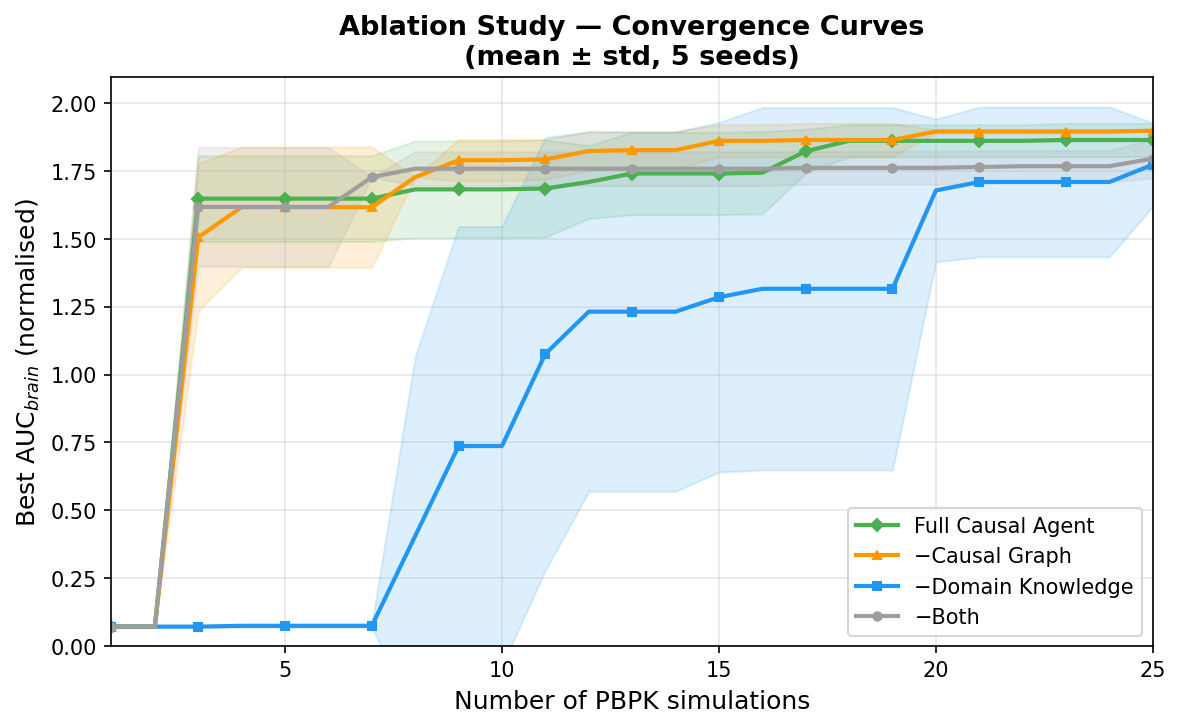
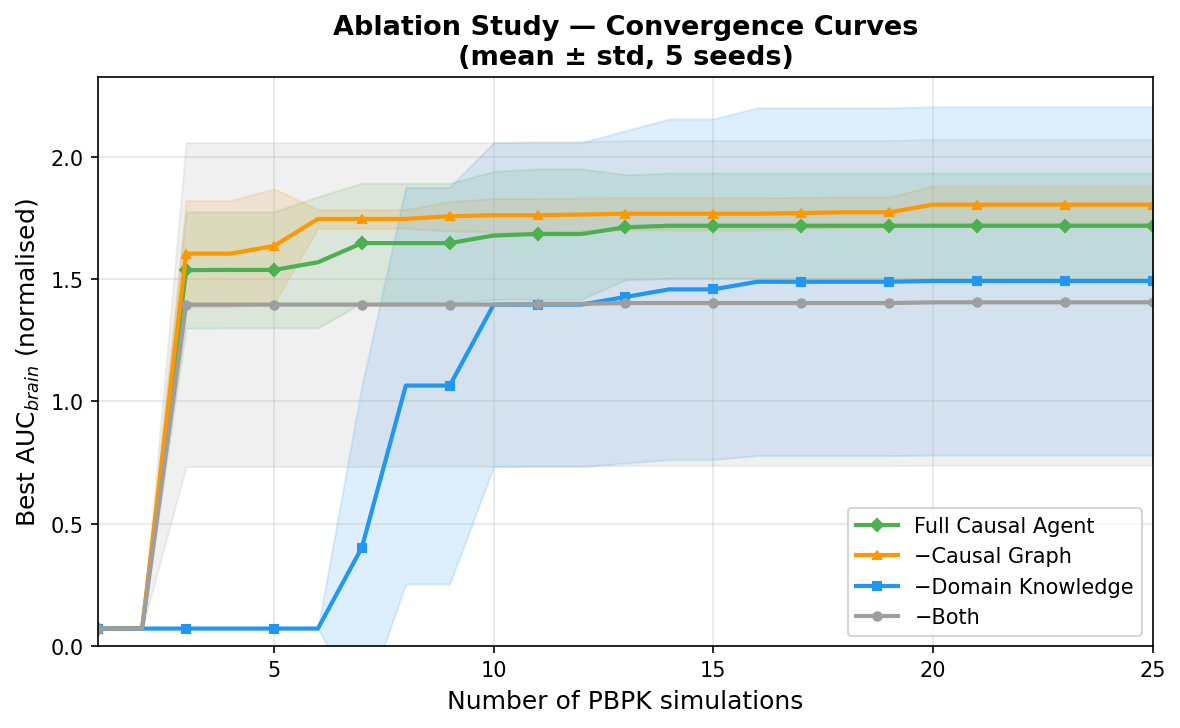
Phase 6: fair sim-budget ablation (PBPK calls, not LLM iterations)
Full Causal Agent achieves Sims->95% = 8.0±2.0 vs 12.5±7.5 for -CausalGraph
(36% faster). Trade-off: higher AUC variance due to early stopping.
Also fix: JSON parse errors on malformed tool arguments now skipped gracefully.

diff --git a/agent.py b/agent.py
@@ -551,6 +551,7 @@ def run_agent(
     initial_design:  dict,
     goal:            str  = "Maximise AUC_brain for BBB crossing",
     max_iterations:  int  = 10,
+    max_simulations: int | None = None,
     verbose:         bool = True,
     backend:         str  = "auto",
 ) -> dict:
@@ -564,7 +565,11 @@ def run_agent(
     goal : str
         Natural-language optimisation goal.
     max_iterations : int
-        Hard cap on ReAct cycles.
+        Hard cap on ReAct cycles (LLM calls).
+    max_simulations : int or None
+        If set, stop after this many pbpk_simulate calls regardless of
+        max_iterations. Causal graph queries do not count toward this budget,
+        making comparisons across agent variants fair.
     verbose : bool
         Print live trace to stdout.
     backend : str
@@ -674,9 +679,13 @@ def run_agent(
                 break
 
             # process tool calls
+            _sim_budget_hit = False
             for tc in msg.tool_calls:
-                tool_name   = tc.function.name
-                tool_inputs = json.loads(tc.function.arguments)
+                tool_name = tc.function.name
+                try:
+                    tool_inputs = json.loads(tc.function.arguments)
+                except Exception:
+                    continue
 
                 if verbose:
                     print(f"\n[Tool] {tool_name}({json.dumps(tool_inputs, ensure_ascii=False)})")
@@ -693,12 +702,21 @@ def run_agent(
                     if auc > best_auc:
                         best_auc    = auc
                         best_design = d.copy()
+                    if max_simulations and len(trajectory) >= max_simulations:
+                        _sim_budget_hit = True
 
                 messages.append({
                     "role":         "tool",
                     "tool_call_id": tc.id,
                     "content":      json.dumps(result, ensure_ascii=False, default=str),
                 })
+                if _sim_budget_hit:
+                    break
+
+            if _sim_budget_hit:
+                if verbose:
+                    print(f"\n[Agent] Simulation budget ({max_simulations}) reached — stopping")
+                break
 
         else:
             # ── Anthropic backend ────────────────────────────────────────────

diff --git a/baselines_anon.py b/baselines_anon.py
@@ -436,6 +436,7 @@ Note: the causal graph tool is NOT available. Explore through simulation.
 
 def _run_anon_agent(anon_initial: dict, system_prompt: str,
                     tools: list, max_iterations: int = 20,
+                    max_simulations: int | None = None,
                     verbose: bool = False) -> dict:
     import textwrap as _tw
 
@@ -511,10 +512,14 @@ def _run_anon_agent(anon_initial: dict, system_prompt: str,
             if finish == "stop" or not msg.tool_calls:
                 break
 
+            _sim_budget_hit = False
             for tc in msg.tool_calls:
-                tool_name   = tc.function.name
-                tool_inputs = json.loads(tc.function.arguments)
-                result      = anon_dispatch(tool_name, tool_inputs)
+                tool_name = tc.function.name
+                try:
+                    tool_inputs = json.loads(tc.function.arguments)
+                except Exception:
+                    continue
+                result = anon_dispatch(tool_name, tool_inputs)
 
                 if verbose:
                     print(f"[{tool_name}] → {json.dumps(result, default=str)[:300]}")
@@ -528,9 +533,16 @@ def _run_anon_agent(anon_initial: dict, system_prompt: str,
                         best_design = result["design_used"].copy()
                     trajectory.append({"sim_call": sim_count, "AUC_brain": auc,
                                        "best_so_far": best_so_far, "step": iteration})
+                    if max_simulations and sim_count >= max_simulations:
+                        _sim_budget_hit = True
 
                 messages.append({"role": "tool", "tool_call_id": tc.id,
                                   "content": json.dumps(result, default=str)})
+                if _sim_budget_hit:
+                    break
+
+            if _sim_budget_hit:
+                break
 
         else:  # anthropic — convert tools to Anthropic format
             import anthropic as _anth

diff --git a/baselines.py b/baselines.py
@@ -205,6 +205,7 @@ import json as _json
 
 
 def run_ablation_agent(initial_design: dict, max_iterations: int = 10,
+                       max_simulations: int | None = None,
                        verbose: bool = True) -> dict:
     """ReAct Agent without query_causal_graph — ablation study."""
     backend = _detect_backend()
@@ -295,9 +296,13 @@ def run_ablation_agent(initial_design: dict, max_iterations: int = 10,
             if finish == "stop" or not msg.tool_calls:
                 break
 
+            _sim_budget_hit = False
             for tc in msg.tool_calls:
-                tool_name   = tc.function.name
-                tool_inputs = _json.loads(tc.function.arguments)
+                tool_name = tc.function.name
+                try:
+                    tool_inputs = _json.loads(tc.function.arguments)
+                except Exception:
+                    continue
 
                 if verbose:
                     print(f"\n[Tool] {tool_name}")
@@ -316,6 +321,8 @@ def run_ablation_agent(initial_design: dict, max_iterations: int = 10,
                         best_design = result["design_used"].copy()
                     trajectory.append({"sim_call": sim_count, "AUC_brain": auc,
                                        "best_so_far": best_so_far, "step": iteration})
+                    if max_simulations and sim_count >= max_simulations:
+                        _sim_budget_hit = True
 
                 messages.append({
                     "role":         "tool",
@@ -323,6 +330,11 @@ def run_ablation_agent(initial_design: dict, max_iterations: int = 10,
                     "content":      _json.dumps(result, ensure_ascii=False,
                                                 default=str),
                 })
+                if _sim_budget_hit:
+                    break
+
+            if _sim_budget_hit:
+                break
 
         else:  # anthropic
             response = client.messages.create(

diff --git a/ablation.py b/ablation.py
@@ -131,7 +131,8 @@ def _run_condition(cond: dict, initial: dict, n_seeds: int, sim_budget: int) -> 
         if domain and causal:
             raw = run_agent(initial,
                             goal="Maximise AUC_brain for BBB-targeted NP",
-                            max_iterations=sim_budget, verbose=False)
+                            max_iterations=100, max_simulations=sim_budget,
+                            verbose=False)
             traj, best_sf = [], 0.0
             for pt in raw["trajectory"]:
                 best_sf = max(best_sf, pt["AUC_brain"])
@@ -146,7 +147,8 @@ def _run_condition(cond: dict, initial: dict, n_seeds: int, sim_budget: int) -> 
             })
 
         elif domain and not causal:
-            raw = run_ablation_agent(initial, max_iterations=sim_budget, verbose=False)
+            raw = run_ablation_agent(initial, max_iterations=100,
+                                     max_simulations=sim_budget, verbose=False)
             runs.append(raw)
 
         else:
@@ -155,8 +157,8 @@ def _run_condition(cond: dict, initial: dict, n_seeds: int, sim_budget: int) -> 
             tools     = ANON_TOOLS_OPENAI if causal else ANON_ABLATION_TOOLS
             system    = _ANON_CAUSAL_SYSTEM if causal else _ANON_ABLATION_SYSTEM
             raw = _run_anon_agent(anon_init, system_prompt=system,
-                                  tools=tools, max_iterations=sim_budget,
-                                  verbose=False)
+                                  tools=tools, max_iterations=100,
+                                  max_simulations=sim_budget, verbose=False)
             # convert anon best_design → real for AUC_ratio computation
             real_design = _anon_to_real_design(raw["best_design"])
             raw["best_design_real"] = real_design
